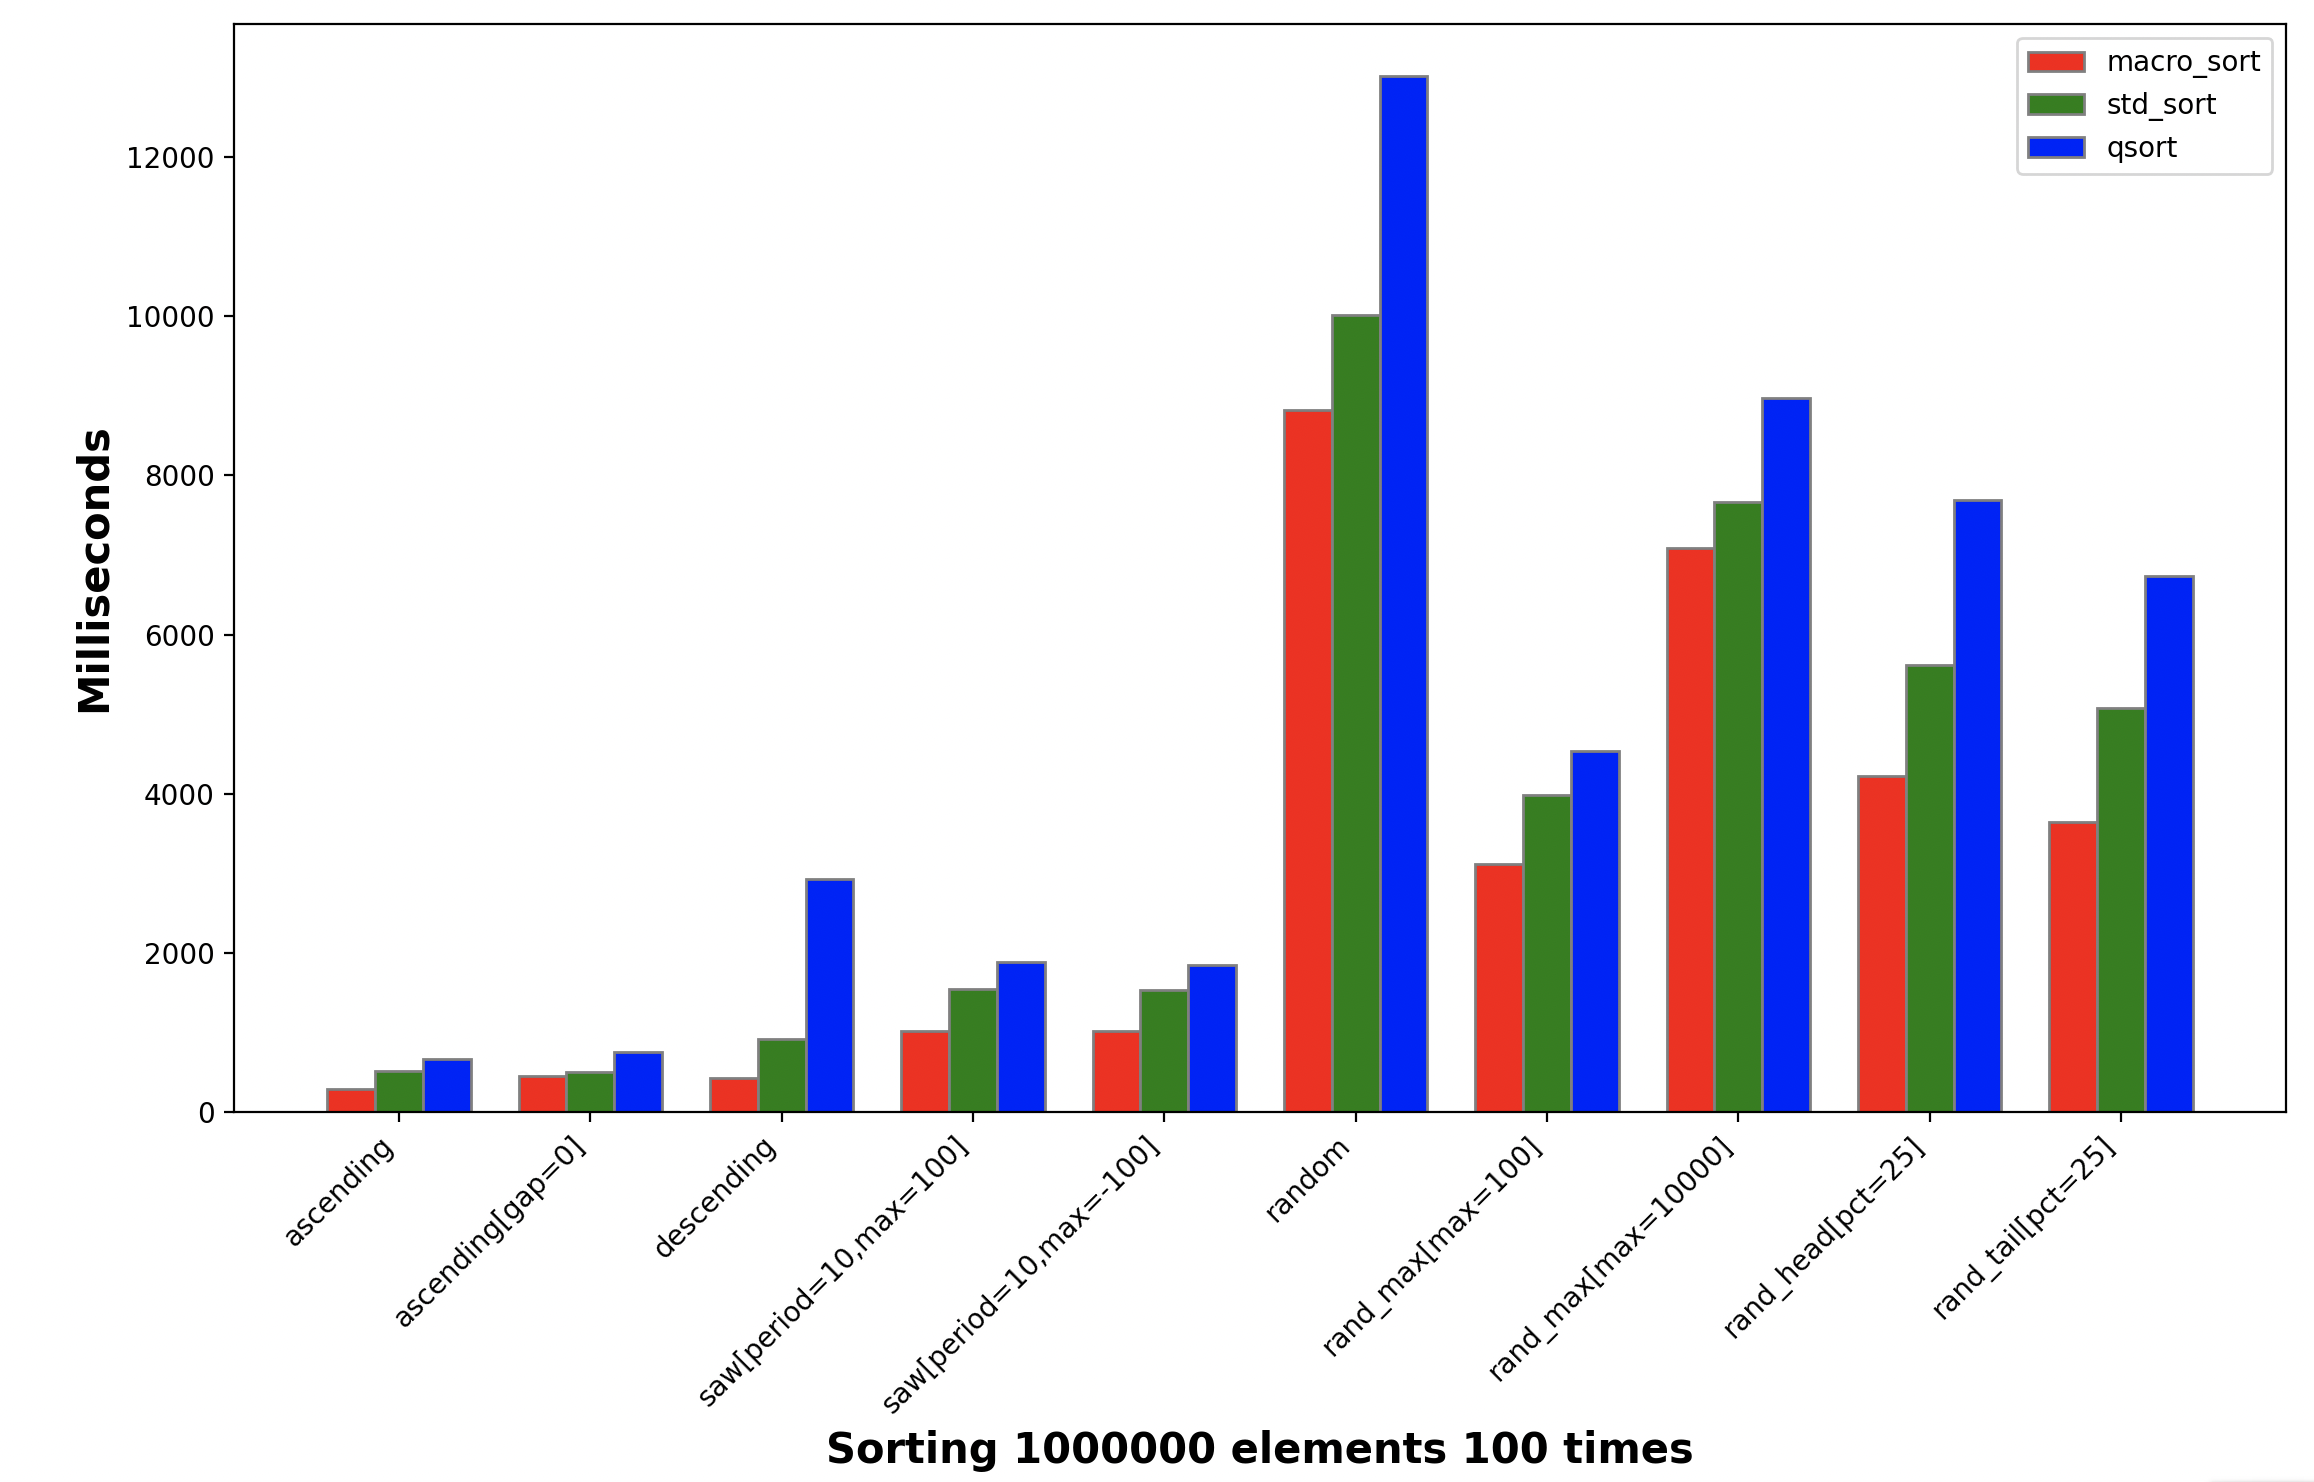
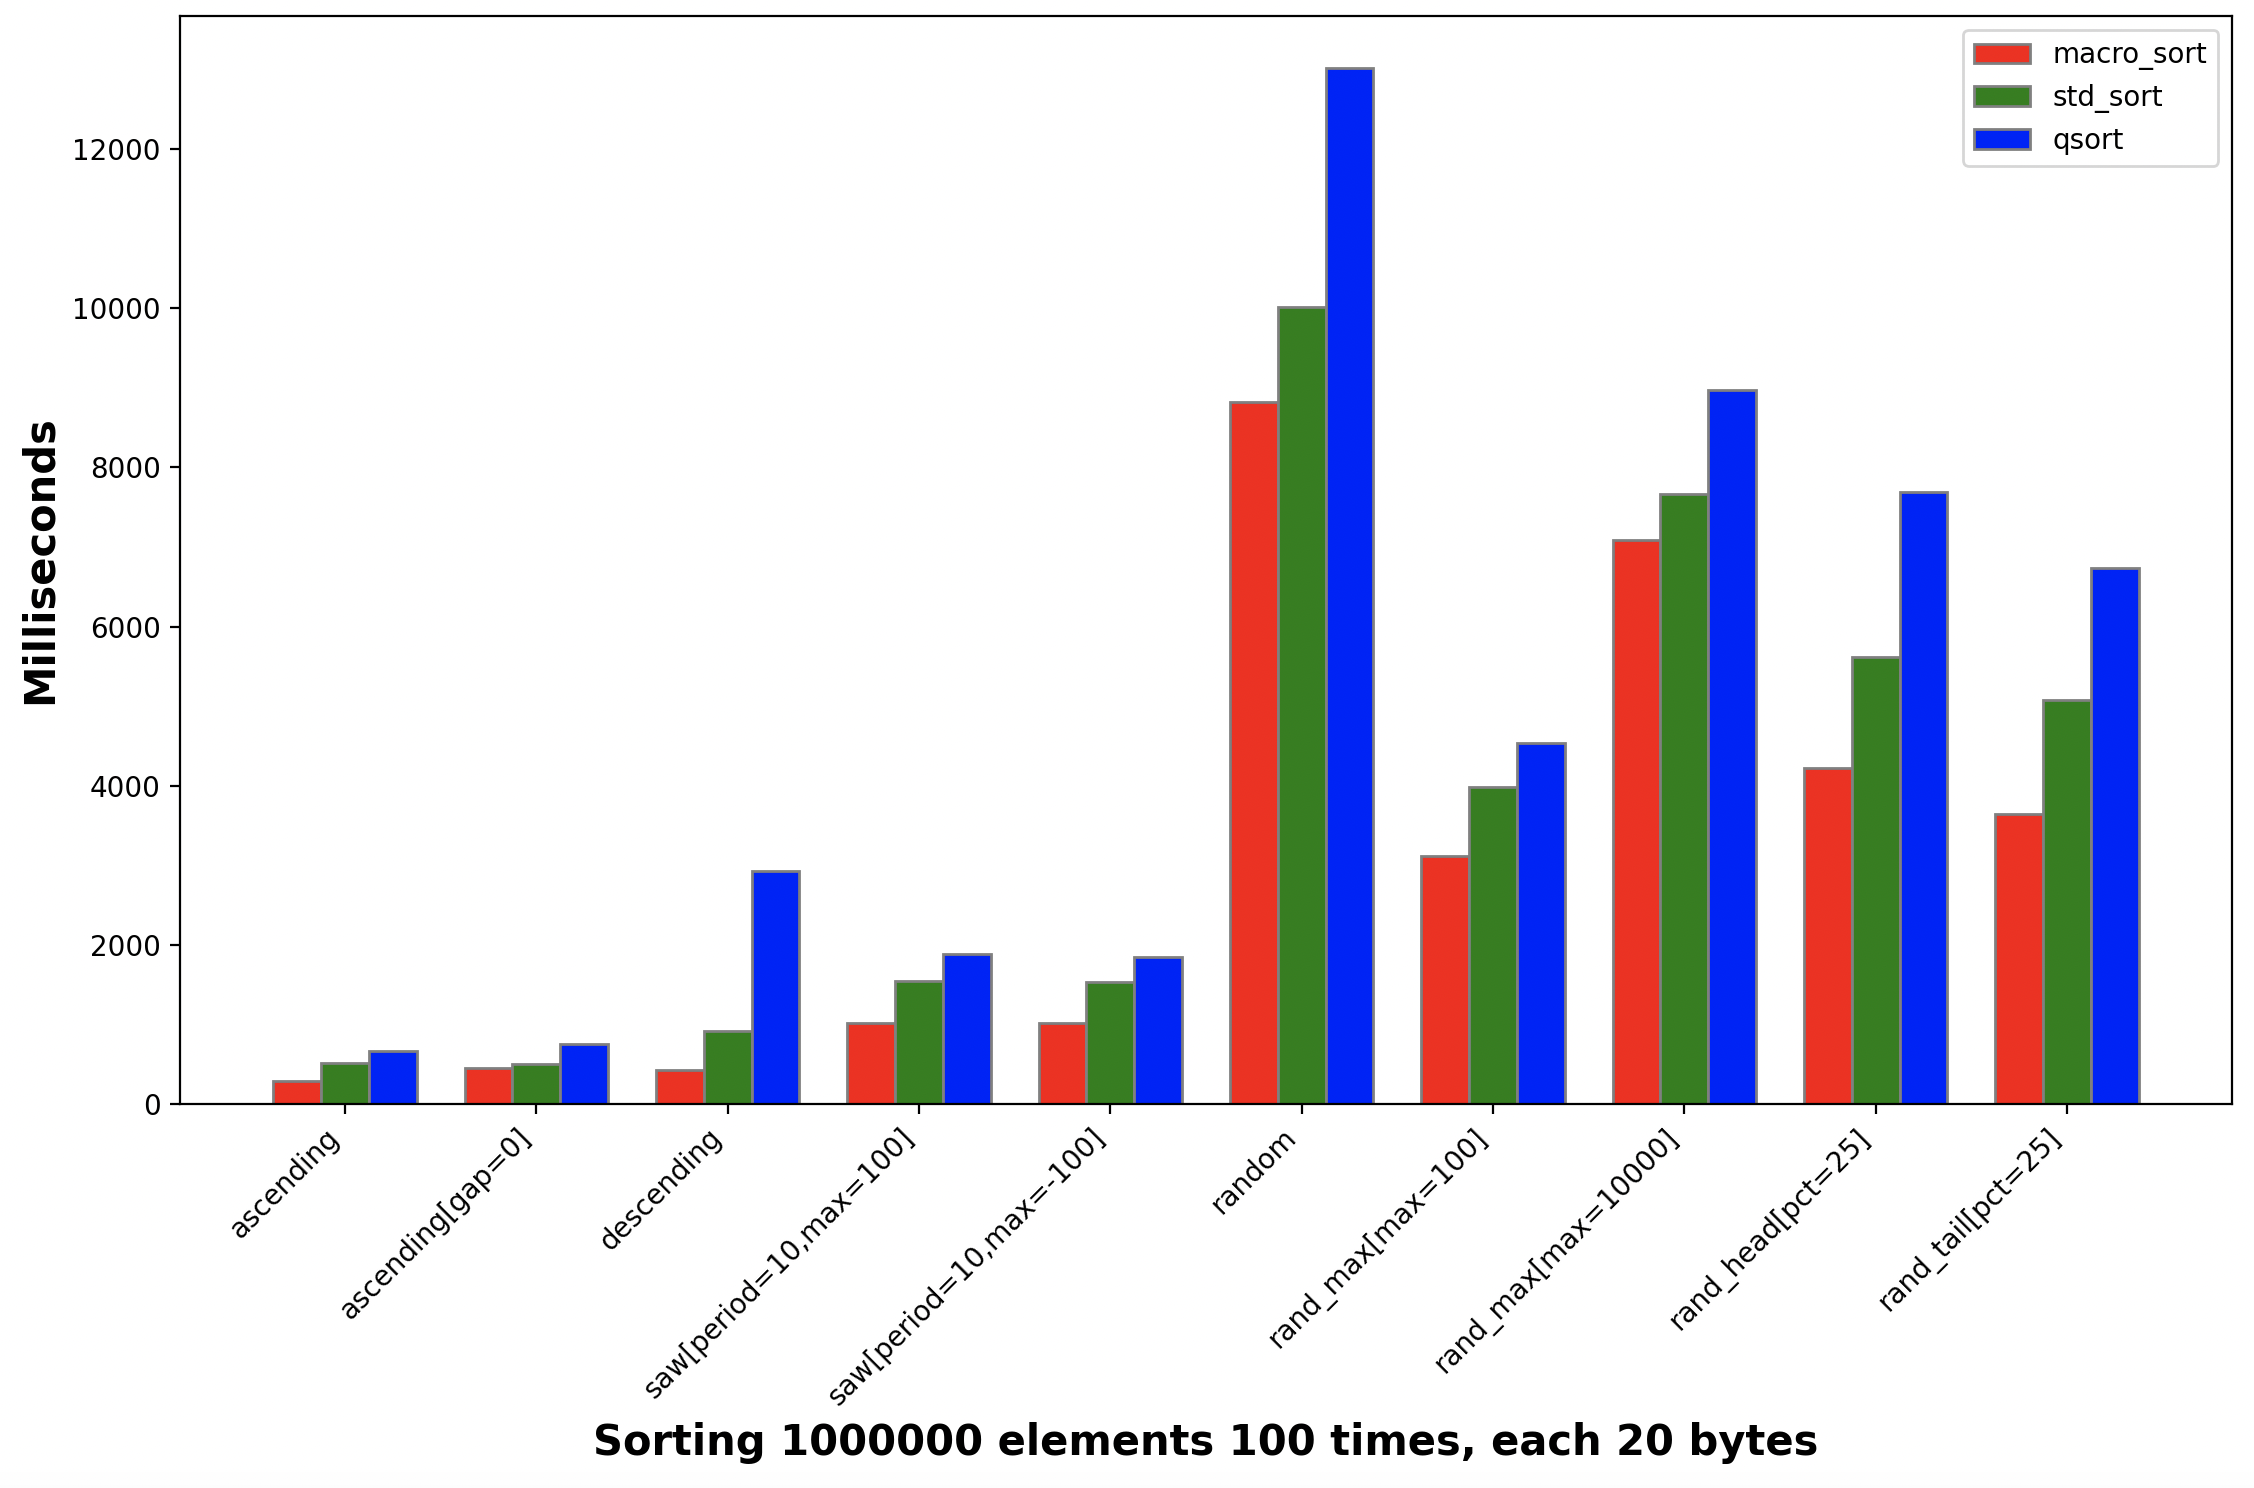
Fixed type in chart

diff --git a/include/test/macro_test_sort.h b/include/test/macro_test_sort.h
@@ -297,7 +297,7 @@ static inline void __macro_sort_write_plot_csv( size_t n, size_t elem_size, int 
                                                 const char *sort1, const char *sort2, const char *sort3,
                                                 __macro_test_sort_result_t *results, int num_results) {
     FILE *out = fopen("plot.dat", "wb");
-    fprintf( out, "Sorting %lu elements %d times, each %lu bytes\n", n, rep, elem_size );
+    fprintf( out, "\"Sorting %lu elements %d times, each %lu bytes\"\n", n, rep, elem_size );
     fprintf( out, "test_names" );
     for( int i=0; i<num_results; i++ )
         fprintf(out, ",\"%s\"", results[i].test_name );
